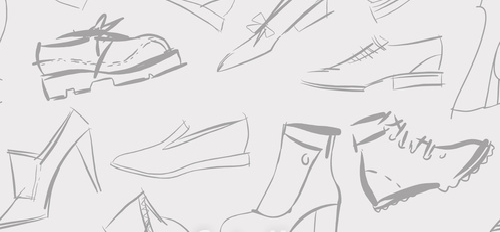
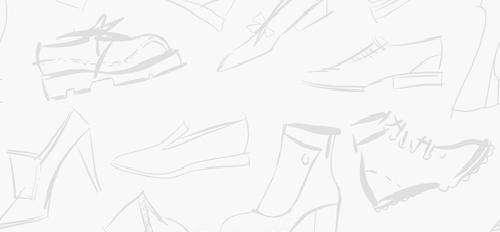
Modificacion de titulo y mapa
Se ha corregido la api key del mapa, y se ha puesto transparencia a la
imagen de fondo del titulo

diff --git a/contact.php b/contact.php
@@ -1,143 +1,148 @@
 <!DOCTYPE html>
 <html lang="es">
-<head>
-    <meta charset="utf-8">
-    <meta name="viewport" content="width=device-width, initial-scale=1.0">
-    <meta name="description" content="">
-    <meta name="author" content="">
-    <title>Contacto | Shoes&Co</title>
-    <link href="css/bootstrap.min.css" rel="stylesheet">
-    <link href="css/font-awesome.min.css" rel="stylesheet">
-    <link href="css/prettyPhoto.css" rel="stylesheet"> 
-    <link href="css/animate.min.css" rel="stylesheet"> 
-	<link href="css/main.css" rel="stylesheet">
-	<link href="css/responsive.css" rel="stylesheet">
+    <head>
+        <meta charset="utf-8">
+        <meta name="viewport" content="width=device-width, initial-scale=1.0">
+        <meta name="description" content="">
+        <meta name="author" content="">
+        <title>Contacto | Shoes&Co</title>
+        <link href="css/bootstrap.min.css" rel="stylesheet">
+        <link href="css/font-awesome.min.css" rel="stylesheet">
+        <link href="css/prettyPhoto.css" rel="stylesheet"> 
+        <link href="css/animate.min.css" rel="stylesheet"> 
+        <link href="css/main.css" rel="stylesheet">
+        <link href="css/responsive.css" rel="stylesheet">
 
-    <!--[if lt IE 9]>
-	    <script src="js/html5shiv.js"></script>
-	    <script src="js/respond.min.js"></script>
-    <![endif]-->       
-    <link rel="shortcut icon" href="images/ico/favicon.ico">
-    <link rel="apple-touch-icon-precomposed" sizes="144x144" href="images/ico/apple-touch-icon-144-precomposed.png">
-    <link rel="apple-touch-icon-precomposed" sizes="114x114" href="images/ico/apple-touch-icon-114-precomposed.png">
-    <link rel="apple-touch-icon-precomposed" sizes="72x72" href="images/ico/apple-touch-icon-72-precomposed.png">
-    <link rel="apple-touch-icon-precomposed" href="images/ico/apple-touch-icon-57-precomposed.png">
-</head><!--/head-->
+        <!--[if lt IE 9]>
+                <script src="js/html5shiv.js"></script>
+                <script src="js/respond.min.js"></script>
+        <![endif]-->       
+        <link rel="shortcut icon" href="images/ico/favicon.ico">
+        <link rel="apple-touch-icon-precomposed" sizes="144x144" href="images/ico/apple-touch-icon-144-precomposed.png">
+        <link rel="apple-touch-icon-precomposed" sizes="114x114" href="images/ico/apple-touch-icon-114-precomposed.png">
+        <link rel="apple-touch-icon-precomposed" sizes="72x72" href="images/ico/apple-touch-icon-72-precomposed.png">
+        <link rel="apple-touch-icon-precomposed" href="images/ico/apple-touch-icon-57-precomposed.png">
+    </head><!--/head-->
 
-<body>
-	<header id="header">      
-        <div class="container">
-            <div class="row">
-                <div class="col-sm-12 overflow">
-                   <div class="social-icons pull-right">
-                        <ul class="nav nav-pills">
-                            <li><a href="https://www.facebook.com/ShoesCo-Footwear-1127750137243972/?fref=ts"><i class="fa fa-facebook"></i></a></li>
-                            <li><a href=""><i class="fa fa-twitter"></i></a></li>
-                            <li><a href=""><i class="fa fa-google-plus"></i></a></li>
-                            <li><a href=""><i class="fa fa-dribbble"></i></a></li>
-                            <li><a href=""><i class="fa fa-linkedin"></i></a></li>
-                        </ul>
-                    </div> 
-                </div>
-             </div>
-        </div>
-        <div class="navbar navbar-inverse" role="banner">
+    <body>
+        <header id="header">      
             <div class="container">
-                <div class="navbar-header">
-                    <button type="button" class="navbar-toggle" data-toggle="collapse" data-target=".navbar-collapse">
-                        <span class="sr-only">Toggle navigation</span>
-                        <span class="icon-bar"></span>
-                        <span class="icon-bar"></span>
-                        <span class="icon-bar"></span>
-                    </button>
-
-                    <a class="navbar-brand" href="index.html">
-                        <h1><img src="images/ShoesCoSmall.png" alt="Logotipo de la empresa"></h1>
-                    </a>
-                    
-                </div>
-                <div class="collapse navbar-collapse">
-                    <ul class="nav navbar-nav navbar-right">
-                        <li><a href="index.php">Home</a></li>
-                        <li><a href="portfoliotwo.php">Catálogo</a></li>
-                        <li><a href="aboutus2.php">Sobre nosotros</a></li>
-                        <li class="active"><a href="contact.php">Contacto</a></li>                 
-                    </ul>
-                </div>
-                <div class="search">
-                    <form role="form">
-                        <i class="fa fa-search"></i>
-                        <div class="field-toggle">
-                            <input type="text" class="search-form" autocomplete="off" placeholder="Search">
-                        </div>
-                    </form>
-                </div>
-            </div>
-        </div>
-    </header>
-    <!--/#header-->    
-
-    <section id="page-breadcrumb">
-        <div class="vertical-center sun">
-             <div class="container">
                 <div class="row">
-                    <div class="action">
-                        <div class="col-sm-12">
-                            <h1 class="title">Contacto</h1>
-                        </div>                        
+                    <div class="col-sm-12 overflow">
+                        <div class="social-icons pull-right">
+                            <ul class="nav nav-pills">
+                                <li><a href="https://www.facebook.com/ShoesCo-Footwear-1127750137243972/?fref=ts"><i class="fa fa-facebook"></i></a></li>
+                                <li><a href=""><i class="fa fa-twitter"></i></a></li>
+                                <li><a href=""><i class="fa fa-google-plus"></i></a></li>
+                                <li><a href=""><i class="fa fa-dribbble"></i></a></li>
+                                <li><a href=""><i class="fa fa-linkedin"></i></a></li>
+                            </ul>
+                        </div> 
                     </div>
                 </div>
             </div>
-        </div>
-   </section>
-    <!--/#action-->
+            <div class="navbar navbar-inverse" role="banner">
+                <div class="container">
+                    <div class="navbar-header">
+                        <button type="button" class="navbar-toggle" data-toggle="collapse" data-target=".navbar-collapse">
+                            <span class="sr-only">Toggle navigation</span>
+                            <span class="icon-bar"></span>
+                            <span class="icon-bar"></span>
+                            <span class="icon-bar"></span>
+                        </button>
 
-    <section id="map-section">
-        <div class="container">
-            <div id="gmap"></div>
-        </div>
-    </section> <!--/#map-section-->        
-    
-    <div class="contact-form bottom">
-                            <h2>Envía tu mensaje</h2>
-                            <form id="main-contact-form" name="contact-form" method="post" action="sendemail.php">
-                                <div class="form-group">
-                                    <input type="text" name="name" class="form-control" required="required" placeholder="Nombre">
-                                </div>
-                                <div class="form-group">
-                                    <input type="email" name="email" class="form-control" required="required" placeholder="E-mail">
-                                </div>
-                                <div class="form-group">
-                                    <textarea name="message" id="message" required="required" class="form-control" rows="8" placeholder="Escribe tu mensaje"></textarea>
-                                </div>                        
-                                <div class="form-group">
-                                    <input type="submit" name="submit" class="btn btn-submit" value="Enviar">
-                                </div>
-                            </form>
+                        <a class="navbar-brand" href="index.html">
+                            <h1><img src="images/ShoesCoSmall.png" alt="Logotipo de la empresa"></h1>
+                        </a>
+
+                    </div>
+                    <div class="collapse navbar-collapse">
+                        <ul class="nav navbar-nav navbar-right">
+                            <li><a href="index.php">Home</a></li>
+                            <li><a href="portfoliotwo.php">Catálogo</a></li>
+                            <li><a href="aboutus2.php">Sobre nosotros</a></li>
+                            <li class="active"><a href="contact.php">Contacto</a></li>                 
+                        </ul>
+                    </div>
+                    <div class="search">
+                        <form role="form">
+                            <i class="fa fa-search"></i>
+                            <div class="field-toggle">
+                                <input type="text" class="search-form" autocomplete="off" placeholder="Search">
+                            </div>
+                        </form>
+                    </div>
+                </div>
+            </div>
+        </header>
+        <!--/#header-->    
+
+        <section id="page-breadcrumb">
+            <div class="vertical-center sun">
+                <div class="container">
+                    <div class="row">
+                        <div class="action">
+                            <div class="col-sm-12">
+                                <h1 class="title">Contacto</h1>
+                            </div>                        
                         </div>
+                    </div>
+                </div>
+            </div>
+        </section>
+        <!--/#action-->
 
-    <footer id="footer">
+        <section id="map-section">
+            <div class="container">
+                <div id="gmap"></div>
+            </div>
+        </section> <!--/#map-section-->        
+        <section>
+            <div class="page-breadcrumb
+                 <div class="vertical-center sun">
+                 <div class="container">
+                    <div class="row">
+                        <h2>Envía tu mensaje</h2>
+                        <form id="main-contact-form" name="contact-form" method="post" action="sendemail.php">
+                            <div class="form-group">
+                                <input type="text" name="name" class="form-control" required="required" placeholder="Nombre">
+                            </div>
+                            <div class="form-group">
+                                <input type="email" name="email" class="form-control" required="required" placeholder="E-mail">
+                            </div>
+                            <div class="form-group">
+                                <textarea name="message" id="message" required="required" class="form-control" rows="8" placeholder="Escribe tu mensaje"></textarea>
+                            </div>                        
+                            <div class="form-group">
+                                <input type="submit" name="submit" class="btn btn-submit" value="Enviar">
+                            </div>
+                        </form>
+                    </div>
+                </div>
+            </div>
+        </section>
+        <footer id="footer">
             <div class="container">
                 <div class="row">
                     <!--<div class="col-sm-12 text-center bottom-separator">
                         <img src="images/home/under.png" class="img-responsive inline" alt="">
                     </div>-->
-                    
+
                     <div class="col-md-4 col-sm-6">
                         <div class="contact-info bottom">
                             <h2>Contacto</h2>
                             <address>
                                 E-mail: <a href="mailto:shoesco.footwear@gmail.com"
-                                        >shoesco.footwear@gmail.com</a> <br> 
+                                           >shoesco.footwear@gmail.com</a> <br> 
                                 Phone: +57 (031) 551 72 53 <br> 
                             </address>
 
-                            
+
                         </div>
                     </div>
                     <div class="col-md-4 col-sm-6">
                         <div class="contact-info bottom">
-                            
+
                             <h2>Dirección</h2>
                             <address>
                                 Cra 24G # 20-04 sur <br> 
@@ -181,15 +186,15 @@
                 </div>
             </div>
         </footer>
-    <!--/#footer-->
+        <!--/#footer-->
 
 
-    <script type="text/javascript" src="js/jquery.js"></script>
-    <script type="text/javascript" src="js/bootstrap.min.js"></script>
-    <!--<script type="text/javascript" src="http://maps.google.com/maps/api/js?sensor=true"></script>-->
-    <script type="text/javascript" src="http://maps.google.com/maps/api/js?key=APIKeyFromGoogle"></script>
-    <script type="text/javascript" src="js/gmaps.js"></script>
-    <script type="text/javascript" src="js/wow.min.js"></script>
-    <script type="text/javascript" src="js/main.js"></script>   
-</body>
+        <script type="text/javascript" src="js/jquery.js"></script>
+        <script type="text/javascript" src="js/bootstrap.min.js"></script>
+        <!--<script type="text/javascript" src="http://maps.google.com/maps/api/js?sensor=true"></script>-->
+        <script type="text/javascript" src="http://maps.google.com/maps/api/js?key=AIzaSyBNi5OnkD1EPDudLXDXkR5hHesZW1WDCqY"></script>
+        <script type="text/javascript" src="js/gmaps.js"></script>
+        <script type="text/javascript" src="js/wow.min.js"></script>
+        <script type="text/javascript" src="js/main.js"></script>   
+    </body>
 </html>
